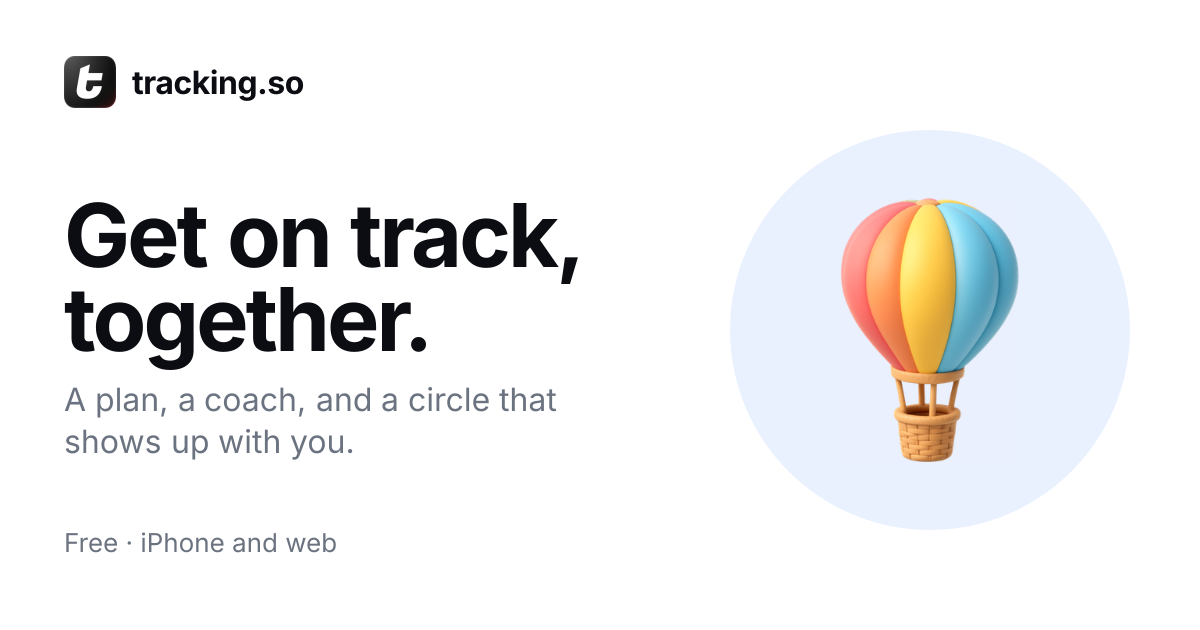
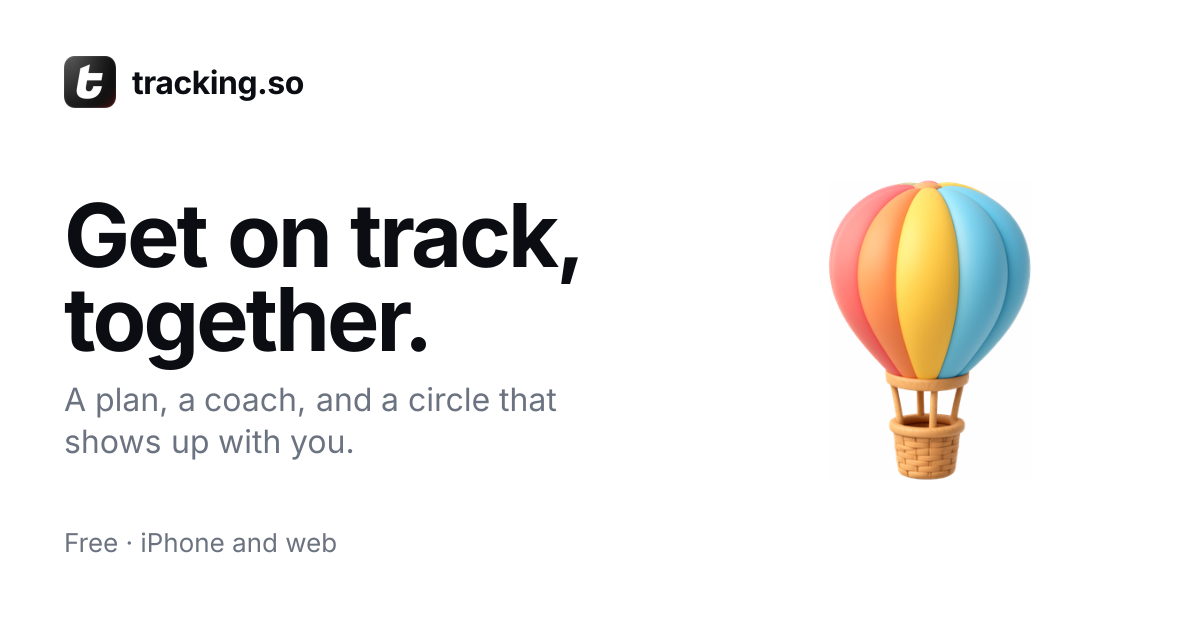
Invite previews: no tinted circle behind the art [skip ci]

Changed region(s): [[0.6783, 0.2714, 0.8633, 0.7841]]

diff --git a/apps/backend-node/src/services/og/card.ts b/apps/backend-node/src/services/og/card.ts
@@ -7,7 +7,6 @@ export const OG_HEIGHT = 630;
 const INK = "#0b0d12";
 const MUTED = "#6b7280";
 const ACCENT = "#2563eb";
-const TINT = "#eaf1fe";
 const ORBIT = "#a9bde8";
 const WHITE = "#ffffff";
 
@@ -119,8 +118,7 @@ const openSeat = ([x, y]: readonly [number, number]): OgNode =>
 function rightSide(card: OgCard, images: OgImages): OgNode[] {
   if (!card.orbit) {
     return [
-      box({ ...centred(930, 330, 400), backgroundColor: TINT }),
-      image(images[card.art], 300, { position: "absolute", left: 780, top: 180 }),
+      image(images[card.art], 340, { position: "absolute", left: 760, top: 160 }),
     ];
   }
   const members = card.orbit.members.slice(0, ORBIT_SEATS);
@@ -130,7 +128,6 @@ function rightSide(card: OgCard, images: OgImages): OgNode[] {
       ? [BOTTOM_SEAT]
       : SEATS.slice(members.length, members.length + card.orbit.openSpots);
   return [
-    box({ ...centred(910, 315, 352), backgroundColor: TINT }),
     box({
       position: "absolute",
       left: 690,
